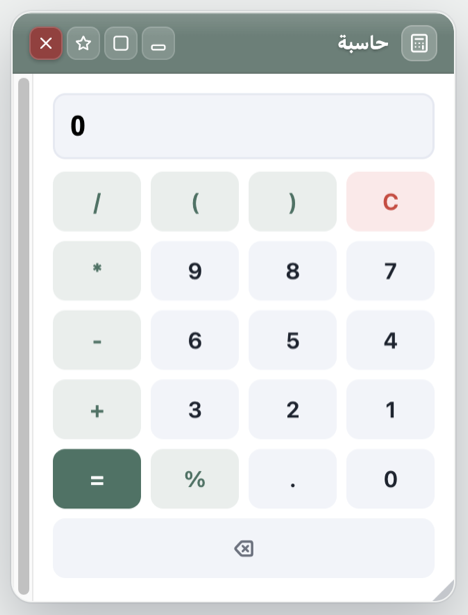
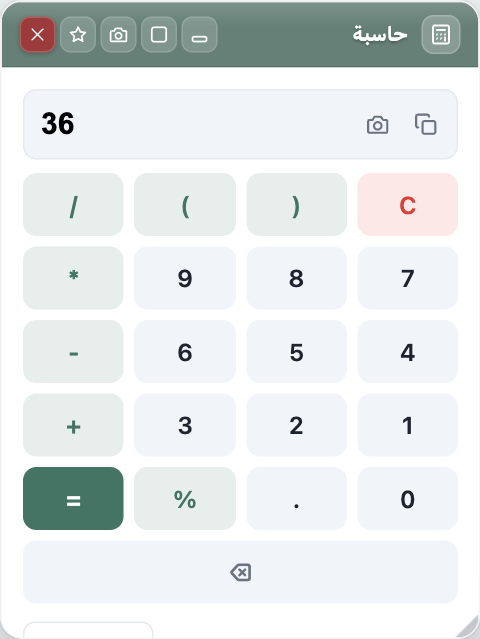
SYF Shortcuts user guide v0.143.0: extension order + new features
- Contents follow the extension's rail: categories in its order, tools in
  their default order inside each.
- New settings section «The tool window's head»: close, favourite, 📷 snap
  the tool to the clipboard, maximise, minimise (new picture + pins).
- Colours: the «Enhanced dropdowns (Select2 style)» switch (picture retaken).
- Calculator: copy / picture icons in the display (pictures retaken).
- Currency: ⟳ refresh rates (pictures retaken).
- Image editor: the «Remove background» tab (steps + new screen).
- Tax calculator: the VAT tab is now «Tax».

diff --git a/assets/guide-data.js b/assets/guide-data.js
@@ -19,7 +19,9 @@
 (function () {
   'use strict';
 
-  /* category order and labels follow the rail (src/rail.js → cats) */
+  /* labels only — the ORDER shown (categories and the tools inside each) is the rail's,
+     applied by guide.js / guide-slides.js from guide-meta.js `order` (src/rail.js
+     ORDER + DEFAULT_TOOL_ORDER). The order entries are written in here does not matter. */
   window.SYF_GUIDE_CATS = [
     { id: 'calc',   ar: 'حاسبات',        en: 'Calculators' },
     { id: 'note',   ar: 'ملاحظات ونصوص', en: 'Notes & text' },
@@ -45,9 +47,9 @@
     /* ===== حاسبات ===== */
     t('calc', 'calc', 1,
       'حاسبة', 'حاسبة بالأقواس والنسبة المئوية والإشارة السالبة، تعمل بلوحة المفاتيح كما تعمل بالضغط، وتحفظ سجلّ آخر العمليات.',
-      ['اكتب العملية أو اضغط الأزرار — الأقواس والإشارة السالبة مدعومة (2×−3 = −6).', 'من لوحة المفاتيح: الأرقام (ومعها ٠-٩) والعمليات و× و÷، Enter أو = للنتيجة، Backspace يحذف آخر حرف، Esc يمسح.', 'Ctrl/⌘+C داخل الحاسبة ينسخ الرقم الظاهر على الشاشة.', '«C» يمسح، و«⌫» يحذف آخر حرف، و«%» يحوّل العدد الذي قبله إلى نسبة.', '«السجلّ» تحت الحاسبة يحفظ آخر 20 عملية ويبقى بعد الإغلاق — انقر سطرًا لتعيد استخدام نتيجته.', '«مسح السجلّ» يفرّغ السجلّ كلّه.'],
+      ['اكتب العملية أو اضغط الأزرار — الأقواس والإشارة السالبة مدعومة (2×−3 = −6).', 'من لوحة المفاتيح: الأرقام (ومعها ٠-٩) والعمليات و× و÷، Enter أو = للنتيجة، Backspace يحذف آخر حرف، Esc يمسح.', 'في طرف شاشة النتيجة أيقونتان: الأولى تنسخ الرقم، والكاميرا تنسخ صورةً للعملية ونتيجتها (مثل 12*3 = 36) لتلصقها في محادثة أو مستند — بلا تنزيل ملف. وCtrl/⌘+C ينسخ الرقم أيضًا.', '«C» يمسح، و«⌫» يحذف آخر حرف، و«%» يحوّل العدد الذي قبله إلى نسبة.', '«السجلّ» تحت الحاسبة يحفظ آخر 20 عملية ويبقى بعد الإغلاق — انقر سطرًا لتعيد استخدام نتيجته.', '«مسح السجلّ» يفرّغ السجلّ كلّه.'],
       'Calculator', 'A calculator with brackets, percentages and negative numbers, driven by the keyboard as well as the buttons, with a history of recent results.',
-      ['Type the expression or press the keys — brackets and negative signs are supported (2×−3 = −6).', 'From the keyboard: digits (Arabic-Indic ٠-٩ too), operators and × ÷, Enter or = for the result, Backspace deletes the last character, Esc clears.', 'Ctrl/⌘+C inside the calculator copies the number on the display.', '«C» clears, «⌫» deletes the last character, «%» turns the preceding number into a percentage.', 'The «History» under the calculator keeps the last 20 operations and survives closing — click a row to reuse its result.', '«Clear history» empties the whole list.']),
+      ['Type the expression or press the keys — brackets and negative signs are supported (2×−3 = −6).', 'From the keyboard: digits (Arabic-Indic ٠-٩ too), operators and × ÷, Enter or = for the result, Backspace deletes the last character, Esc clears.', 'Two icons sit at the end of the display: one copies the number, the camera copies a picture of the sum and its result (e.g. 12*3 = 36) to paste into a chat or a document — no file is downloaded. Ctrl/⌘+C copies the number too.', '«C» clears, «⌫» deletes the last character, «%» turns the preceding number into a percentage.', 'The «History» under the calculator keeps the last 20 operations and survives closing — click a row to reuse its result.', '«Clear history» empties the whole list.']),
     t('units', 'calc', 1,
       'محوّل الوحدات', 'أحد عشر بابًا للتحويل — طول ووزن وحرارة ومساحة وحجم وسرعة وزمن وبيانات وضغط وطاقة وزاوية — في الاتجاهين.',
       ['اختر الباب من الشريط الجانبي (الطول، الوزن، الحرارة، …).', 'اكتب القيمة في الخانة العليا واختر وحدتها، واختر وحدة النتيجة في الخانة السفلى.', 'يمكنك الكتابة في أيّ الخانتين — الأخرى تتبعها فورًا.', 'زرّ السهمين «عكس الاتجاه» يبدّل الوحدتين وينقل النتيجة إلى خانة القيمة.', 'القائمة تحتها تعرض القيمة في كل وحدات الباب دفعةً واحدة — انقر سطرًا لتجعله وحدة النتيجة.'],
@@ -55,9 +57,9 @@
       ['Pick the family in the side rail (Length, Weight, Temperature, …).', 'Type the value in the top box and pick its unit, then pick the result unit in the bottom box.', 'You can type in either box — the other follows at once.', 'The two-arrow «Swap direction» button swaps the units and moves the result into the value box.', 'The list below shows the value in every unit of the family at once — click a row to make it the result unit.']),
     t('currency', 'calc', 1,
       'العملات', 'مبلغ واحد بعملة أساسية تراه بكل العملات التي تختارها دفعةً واحدة، بأسعار من الشبكة تُخزَّن فتبقى تعمل بلا اتصال مع تاريخها.',
-      ['اكتب المبلغ واختر العملة الأساس من القائمة بجانبه.', 'اللوحة تحتها تعرض المبلغ بكل عملة معروضة، ومعه سعر الوحدة (1 SAR = …).', 'انقر أيّ سطر لتجعل عملته هي العملة الأساس.', '«العملات المعروضة» يفتح قائمة بمربّعات اختيار وحقل «ابحث عن عملة…» — علّم ما تريد ظهوره.', 'السطر السفلي يقول من متى السعر: «آخر تحديث» عند النجاح، و«سعر مخزَّن من …» إن تعذّر التحديث.', 'بلا سعر لعملةٍ ما تظهر «لا يوجد سعر لهذه العملة» بدل رقم مخترَع. العملة الأساس والقائمة تُحفظان.'],
+      ['اكتب المبلغ واختر العملة الأساس من القائمة بجانبه.', 'اللوحة تحتها تعرض المبلغ بكل عملة معروضة، ومعه سعر الوحدة (1 SAR = …).', 'انقر أيّ سطر لتجعل عملته هي العملة الأساس.', '«العملات المعروضة» يفتح قائمة بمربّعات اختيار وحقل «ابحث عن عملة…» — علّم ما تريد ظهوره.', 'السطر السفلي يقول من متى السعر: «آخر تحديث» عند النجاح، و«سعر مخزَّن من …» إن تعذّر التحديث.', 'زرّ ⟳ «تحديث الأسعار» بجانب «العملات المعروضة» يجلب أحدث الأسعار الآن متجاوزًا المخزَّن.', 'بلا سعر لعملةٍ ما تظهر «لا يوجد سعر لهذه العملة» بدل رقم مخترَع. العملة الأساس والقائمة تُحفظان.'],
       'Currency', 'One amount in a base currency, read at once in every currency you choose, using rates fetched from the network and cached with their date so it still works offline.',
-      ['Type the amount and pick the base currency in the list beside it.', 'The board below shows the amount in each watched currency, with the unit rate (1 SAR = …).', 'Click any row to make its currency the base.', '«Currencies shown» opens a checklist with a «Search for a currency…» box — tick the ones you want listed.', 'The bottom line says how old the rate is: «Last updated» on success, «Cached rate from …» when it could not refresh.', 'A currency with no rate says «No rate for this currency» instead of an invented number. Your base and list are remembered.']),
+      ['Type the amount and pick the base currency in the list beside it.', 'The board below shows the amount in each watched currency, with the unit rate (1 SAR = …).', 'Click any row to make its currency the base.', '«Currencies shown» opens a checklist with a «Search for a currency…» box — tick the ones you want listed.', 'The bottom line says how old the rate is: «Last updated» on success, «Cached rate from …» when it could not refresh.', 'The ⟳ «Refresh rates» button beside «Currencies shown» fetches the latest rates now, skipping the cached ones.', 'A currency with no rate says «No rate for this currency» instead of an invented number. Your base and list are remembered.']),
     t('finance', 'calc', 1,
       'حاسبة مالية', 'ثماني حاسبات مالية في أداة واحدة، كلٌّ في تبويب: النسبة، الخصم، هامش الربح، العمولة، الأوفر تايم، عائد الاستثمار، العائد المركّب، الراتب.',
       ['اختر الحاسبة من الشريط الجانبي؛ الناتج يظهر فور الكتابة — لا يوجد زرّ «احسب».', '«النسبة»: أربعة أوضاع — نسبة من عدد، زيادة، نقصان، ونسبة عدد من عدد.', '«الخصم»: السعر ونسبة الخصم ⇐ قيمة الخصم والسعر بعده.', '«هامش الربح»: سعر البيع والتكلفة ⇐ الربح وهامش الربح ونسبة الزيادة على التكلفة.', '«العمولة»: المبيعات والنسبة، ثم «العمولة فقط» أو «إضافتها» أو «خصمها» من المبلغ.', '«أوفر تايم»: الراتب وساعات الشهر والساعات الإضافية والمعامل (×1.5 أو ×2) ⇐ أجر الساعة والإجمالي.', '«عائد استثمار» و«عائد مركّب»: المبلغ والنسبة السنوية والسنوات والادخار كل فترة، سنويًّا أو شهريًّا ⇐ الربح والرصيد النهائي (والأول يعطي ROI%).', '«الراتب»: الأساسي والبدلات وسنة الخدمة في التأمينات ⇐ خصم التأمينات وصافي الراتب (الأجر الخاضع محدود بـ45,000 ريال).'],
@@ -65,9 +67,9 @@
       ['Pick the calculator in the side rail; the answer appears as you type — there is no «calculate» button.', '«Percentage»: four modes — percentage of a number, increase, decrease, and one number as a percentage of another.', '«Discount»: price and discount rate ⇒ the discount amount and the price after it.', '«Profit margin»: selling price and cost ⇒ profit, margin and markup on cost.', '«Commission»: sales and rate, then «Commission only», «Add it» or «Subtract it» from the amount.', '«Overtime»: monthly salary, monthly hours, extra hours and multiplier (×1.5 or ×2) ⇒ hourly rate and total.', '«ROI» and «Compound»: amount, yearly rate, years and contribution each period, yearly or monthly ⇒ gain and final balance (ROI also gives ROI %).', '«Salary»: basic, allowances and social-insurance year ⇒ the GOSI deduction and net salary (the insured wage is capped at 45,000 SAR).']),
     t('tax', 'calc', 1,
       'حاسبة الضرائب', 'أربع حاسبات في تبويبات: ضريبة القيمة المضافة (السعودية والإمارات ومصر أو نسبة حرّة)، وغرامة التأخير وضريبة الشركات ومكافأة نهاية الخدمة وفق قوانين الإمارات.',
-      ['اختر النوع من الشريط الجانبي؛ الناتج يظهر فور الكتابة.', '«ضريبة القيمة»: اختر «السعودية 15%» أو «الإمارات 5%» أو «مصر 14%»، أو «أخرى» واكتب النسبة بنفسك.', '«إضافة الضريبة» تحسبها فوق المبلغ، و«استخراجها» تفترض أن المبلغ شاملها — والناتج: الصافي والضريبة والإجمالي.', '«غرامة تأخير»: قيمة الضريبة وتاريخا الاستحقاق والسداد ⇐ الغرامة (2% فورًا + 4% شهريًّا، بحدّ 300%).', '«ضريبة الشركات»: الدخل الخاضع ⇐ 9% على ما يزيد عن 375,000 درهم، وصافي الدخل.', '«نهاية الخدمة»: آخر راتب أساسي وتاريخا الالتحاق وآخر يوم وأيام الإجازة بلا راتب ⇐ مدة الخدمة والمكافأة.'],
+      ['اختر النوع من الشريط الجانبي؛ الناتج يظهر فور الكتابة.', '«الضريبة»: اختر «السعودية 15%» أو «الإمارات 5%» أو «مصر 14%»، أو «أخرى» واكتب النسبة بنفسك.', '«إضافة الضريبة» تحسبها فوق المبلغ، و«استخراجها» تفترض أن المبلغ شاملها — والناتج: الصافي والضريبة والإجمالي.', '«غرامة تأخير»: قيمة الضريبة وتاريخا الاستحقاق والسداد ⇐ الغرامة (2% فورًا + 4% شهريًّا، بحدّ 300%).', '«ضريبة الشركات»: الدخل الخاضع ⇐ 9% على ما يزيد عن 375,000 درهم، وصافي الدخل.', '«نهاية الخدمة»: آخر راتب أساسي وتاريخا الالتحاق وآخر يوم وأيام الإجازة بلا راتب ⇐ مدة الخدمة والمكافأة.'],
       'Tax calculator', 'Four calculators in tabs: VAT (Saudi, UAE, Egypt or a free rate), plus late-payment penalty, corporate tax and end-of-service gratuity under UAE law.',
-      ['Pick the kind in the side rail; the answer appears as you type.', '«VAT»: choose «Saudi Arabia 15%», «UAE 5%» or «Egypt 14%», or «Other» and type your own rate.', '«Add the tax» computes it on top of the amount; «Extract it» assumes the amount already includes it — showing net, tax and total.', '«Late penalty»: tax amount, due date and payment date ⇒ the penalty (2% at once + 4% a month, capped at 300%).', '«Corporate tax»: taxable income ⇒ 9% on the part above AED 375,000, and the net income.', '«End of service»: last basic salary, start date, last working day and unpaid-leave days ⇒ years of service and the gratuity.'])
+      ['Pick the kind in the side rail; the answer appears as you type.', '«Tax»: choose «Saudi Arabia 15%», «UAE 5%» or «Egypt 14%», or «Other» and type your own rate.', '«Add the tax» computes it on top of the amount; «Extract it» assumes the amount already includes it — showing net, tax and total.', '«Late penalty»: tax amount, due date and payment date ⇒ the penalty (2% at once + 4% a month, capped at 300%).', '«Corporate tax»: taxable income ⇒ 9% on the part above AED 375,000, and the net income.', '«End of service»: last basic salary, start date, last working day and unpaid-leave days ⇒ years of service and the gratuity.'])
     /* ===== ملاحظات ونصوص ===== */
 ,
     t('notes', 'note', 1,
@@ -388,10 +390,10 @@
       'Screenshot', 'Captures an area you mark, a window or screen you pick, or the whole page by auto-scrolling — all processed locally.',
       ['«Mark an area» tab: press «✂ Mark an area and capture it» and drag a rectangle; it is captured and copied as you release. Esc cancels.', 'For an area taller than the screen, scroll with the wheel or drag towards the screen edge while selecting; the slices are stitched into one image.', '«The visible area» tab: press «Take a snapshot» and pick a window or screen in the sharing dialog; the image is copied to the clipboard automatically.', '«The whole page» tab: press «📸 Capture the whole page» and don\'t move the page until it finishes; fixed bars are hidden so they don\'t repeat.', 'After capturing: «📋 Copy to the clipboard» or «Download PNG» (the whole page also offers «Download JPG» and «Download PDF»).', '«✏ Quick edit» sends the shot to the image editor, and «🎨 Pro editor» opens it in the advanced editing page.', 'A whole-page capture stops at a maximum height, and scrolling areas inside the page are not included.']),
     t('imgedit', 'media', 1,
-      'محرر الصور والمحوّل', 'محرر صور سريع للرسم والقصّ والطمس والكتابة، مع تحويل الصيغ و PDF ⇄ صور والضغط وتغيير الحجم — محلّيًا بالكامل.',
-      ['تبويب «تحرير»: افتح صورة، أو أرسِلها من أداة اللقطة بزرّ «تحرير سريع».', 'أدوات الرسم: قلم · خط · إطار · سهم · نص · قص · طمس، مع لون وسماكة، وزرّ تدوير 90° وزرّ تراجع.', '«قص»: اسحب مستطيلًا ثم «✓ تأكيد القص»؛ «طمس»: اسحب على منطقة فتُموَّه بالبكسل نهائيًا (يناسب إخفاء البيانات الحسّاسة).', '«نص»: اكتب النص في الحقل ثم انقر موضعه على الصورة. احفظ بـ«تنزيل PNG» أو JPG أو PDF، أو «📋 نسخ»، أو افتحها في المحرر الاحترافي.', 'تبويب «تحويل صيغة»: اختر ملفات (صور أو PDF) والصيغة الهدف: PNG · JPG · WebP · BMP · ICO · GIF · TIFF · PDF، ثم «تحويل وتنزيل».', 'في التحويل: جودة لـ JPG/WebP/PDF، ومقاسات الأيقونة لـ ICO، ودمج الكل في PDF واحد أو ملاءمة صفحة A4، وخيار «أقصى بُعد».', 'تبويب «PDF ⇄ صور»: «PDF → صور» يستخرج صفحات تختارها (مثل 1-3,7) بدقّة 72–300 DPI؛ «صور → PDF» يجمع الصور في ملف PDF واحد.', 'تبويب «ضغط»: جودة يدوية أو حجم مستهدف بالكيلوبايت؛ وتبويب «تغيير الحجم»: أطول ضلع أو العرض أو الارتفاع أو نسبة %. أكثر من ملف يُنزَّل ZIP.'],
-      'Image editor & converter', 'A quick image editor for drawing, cropping, blurring and text, plus format conversion, PDF ⇄ images, compression and resizing — entirely local.',
-      ['«Edit» tab: open an image, or send one here from the screenshot tool with «Quick edit».', 'Drawing tools: pen · line · frame · arrow · text · crop · blur, with colour and thickness, a rotate-90° button and «Undo».', 'Crop: drag a rectangle, then «✓ Confirm the crop». Blur: drag over an area to pixelate it permanently — good for hiding sensitive details.', 'Text: type it in the field, then click its spot on the image. Save with «Download PNG», JPG or PDF, «📋 Copy», or open it in the pro editor.', '«Convert format» tab: pick files (images or PDF) and a target format: PNG · JPG · WebP · BMP · ICO · GIF · TIFF · PDF, then convert and download.', 'Conversion options: quality for JPG/WebP/PDF, icon sizes for ICO, merge everything into one PDF or fit to an A4 page, and a maximum dimension.', '«PDF ⇄ images» tab: «PDF → images» extracts pages you list (e.g. 1-3,7) at 72–300 DPI; «Images → PDF» builds one PDF from your images.', '«Compress» tab: manual quality or a target size in KB. «Resize» tab: longest side, width, height or percent. More than one file downloads as a ZIP.']),
+      'محرر الصور والمحوّل', 'محرر صور سريع للرسم والقصّ والطمس والكتابة، مع تحويل الصيغ و PDF ⇄ صور والضغط وتغيير الحجم وحذف الخلفية — محلّيًا بالكامل.',
+      ['تبويب «تحرير»: افتح صورة، أو أرسِلها من أداة اللقطة بزرّ «تحرير سريع».', 'أدوات الرسم: قلم · خط · إطار · سهم · نص · قص · طمس، مع لون وسماكة، وزرّ تدوير 90° وزرّ تراجع.', '«قص»: اسحب مستطيلًا ثم «✓ تأكيد القص»؛ «طمس»: اسحب على منطقة فتُموَّه بالبكسل نهائيًا (يناسب إخفاء البيانات الحسّاسة).', '«نص»: اكتب النص في الحقل ثم انقر موضعه على الصورة. احفظ بـ«تنزيل PNG» أو JPG أو PDF، أو «📋 نسخ»، أو افتحها في المحرر الاحترافي.', 'تبويب «تحويل صيغة»: اختر ملفات (صور أو PDF) والصيغة الهدف: PNG · JPG · WebP · BMP · ICO · GIF · TIFF · PDF، ثم «تحويل وتنزيل».', 'في التحويل: جودة لـ JPG/WebP/PDF، ومقاسات الأيقونة لـ ICO، ودمج الكل في PDF واحد أو ملاءمة صفحة A4، وخيار «أقصى بُعد».', 'تبويب «PDF ⇄ صور»: «PDF → صور» يستخرج صفحات تختارها (مثل 1-3,7) بدقّة 72–300 DPI؛ «صور → PDF» يجمع الصور في ملف PDF واحد.', 'تبويب «ضغط»: جودة يدوية أو حجم مستهدف بالكيلوبايت؛ وتبويب «تغيير الحجم»: أطول ضلع أو العرض أو الارتفاع أو نسبة %. أكثر من ملف يُنزَّل ZIP.', 'تبويب «حذف الخلفية»: اسحب صورة أو الصقها (Ctrl+V)، ثم انقر الخلفية بـ«العصا السحرية» — «التفاوت» يحدّد مدى تشابه الألوان، و«المنطقة المتّصلة» أو «كل هذا اللون».', 'صحّح الحوافّ بـ«فرشاة: أبقِ» و«فرشاة: احذف» (حجمها بـ[ و])، مع «↩ تراجع» و«↪ إعادة» و«تنعيم الحافّة» و«قبل / بعد». اختر «الخلفية»: شفّافة أو بيضاء أو لون، ثم «تنزيل PNG» أو WebP أو JPG أو «📋 نسخ» أو أرسلها إلى «تحرير». الصورة لا تغادر جهازك، والوضع التلقائي بالذكاء المحلّي قادم قريبًا.'],
+      'Image editor & converter', 'A quick image editor for drawing, cropping, blurring and text, plus format conversion, PDF ⇄ images, compression, resizing and background removal — entirely local.',
+      ['«Edit» tab: open an image, or send one here from the screenshot tool with «Quick edit».', 'Drawing tools: pen · line · frame · arrow · text · crop · blur, with colour and thickness, a rotate-90° button and «Undo».', 'Crop: drag a rectangle, then «✓ Confirm the crop». Blur: drag over an area to pixelate it permanently — good for hiding sensitive details.', 'Text: type it in the field, then click its spot on the image. Save with «Download PNG», JPG or PDF, «📋 Copy», or open it in the pro editor.', '«Convert format» tab: pick files (images or PDF) and a target format: PNG · JPG · WebP · BMP · ICO · GIF · TIFF · PDF, then convert and download.', 'Conversion options: quality for JPG/WebP/PDF, icon sizes for ICO, merge everything into one PDF or fit to an A4 page, and a maximum dimension.', '«PDF ⇄ images» tab: «PDF → images» extracts pages you list (e.g. 1-3,7) at 72–300 DPI; «Images → PDF» builds one PDF from your images.', '«Compress» tab: manual quality or a target size in KB. «Resize» tab: longest side, width, height or percent. More than one file downloads as a ZIP.', '«Remove background» tab: drop or paste (Ctrl+V) an image, then click the background with the «Magic wand» — «Tolerance» sets how alike the colours must be, with «Connected area» or «All of this colour».', 'Fix the edges with «Brush: keep» and «Brush: erase» (size with [ and ]), plus «↩ Undo», «↪ Redo», «Edge feather» and «Before / after». Pick the «Background»: transparent, white or a colour, then «Download PNG», WebP or JPG, «📋 Copy», or send it to «Edit». The image never leaves your device; an automatic local-AI mode is coming soon.']),
     t('imgbatch', 'media', 1,
       'معالج الصور المجمّع', 'يصغّر ويحوّل ويضغط مجموعة صور دفعة واحدة، ويُنزّلها ملف ZIP واحدًا.',
       ['اختر الصور (يظهر عددها وحجمها الإجمالي؛ ويُنبَّه إن تجاوزت 100 صورة).', '«① البُعد»: بدون تغيير، أو أطول ضلع بالبكسل، أو نسبة %.', '«② الصيغة»: الأصل أو WebP أو JPG أو PNG.', '«③ الضغط»: جودة بمنزلق، أو حجم مستهدف بالكيلوبايت لكل صورة.', 'اضغط «نفّذ على الكل»: تُعالَج الصور واحدة تلو الأخرى مع سطر نتيجة لكل صورة، ثم يُنزَّل ملف ZIP واحد.', 'تعرض الخانات «الإجمالي قبل» و«الإجمالي بعد» و«التوفير» نسبة ما وفّرته.', 'محلّي بالكامل: لا تُرفع أي صورة.'],
@@ -622,7 +624,7 @@
     'occasions': [['occasions-settings', 'الإعدادات', 'Settings']],
     'quran': [['quran-surahs', 'السور', 'Surahs'], ['quran-sleep', 'مؤقّت النوم', 'Sleep timer']],
     'screenshot': [['screenshot-visible', 'المنطقة المرئية', 'Visible area'], ['screenshot-page', 'الصفحة كاملة', 'Whole page']],
-    'imgedit': [['imgedit-edit', 'تحرير صورة', 'Editing an image'], ['imgedit-convert', 'تحويل صيغة', 'Convert'], ['imgedit-pdf', 'PDF ⇄ صور', 'PDF ⇄ images'], ['imgedit-compress', 'ضغط', 'Compress'], ['imgedit-resize', 'تغيير الحجم', 'Resize']],
+    'imgedit': [['imgedit-edit', 'تحرير صورة', 'Editing an image'], ['imgedit-convert', 'تحويل صيغة', 'Convert'], ['imgedit-pdf', 'PDF ⇄ صور', 'PDF ⇄ images'], ['imgedit-compress', 'ضغط', 'Compress'], ['imgedit-resize', 'تغيير الحجم', 'Resize'], ['imgedit-bgrm', 'حذف الخلفية', 'Remove background']],
     'imgbatch': [['imgbatch-target', 'حجم مستهدف', 'Target size']],
     'videodl': [['videodl-results', 'نتائج البحث', 'Search results']],
     'status': [['status-image', 'خلفية من صورة', 'Image background']],

diff --git a/assets/guide-settings.js b/assets/guide-settings.js
@@ -36,6 +36,19 @@
        '★ Star', 'Adds the tool to the favourites shelf at the top of the rail.']
     ]),
 
+    g('win', '🪟', ['رأس نافذة الأداة', 'أعلى كل نافذة أداة تفتحها — على الشريط العائم وفي وضع العمل'], ['The tool window\'s head', 'The top of every tool window you open — on the floating rail and in Workspace mode'], [
+      ['✕ إغلاق', 'يغلق النافذة. سحب الرأس ينقلها، والمقبض في زاويتها السفلى يغيّر حجمها.',
+       '✕ Close', 'Closes the window. Drag the head to move it; the grip in its bottom corner resizes it.'],
+      ['★ المفضّلة', 'يضيف الأداة إلى رفّ المفضّلة أعلى الشريط أو يزيلها منه.',
+       '★ Favourite', 'Adds the tool to the favourites shelf at the top of the rail, or removes it.'],
+      ['📷 تصوير الأداة ونسخ الصورة', 'يلتقط النافذة كما تراها وينسخها صورةً إلى الحافظة — الصقها مباشرة في محادثة أو مستند. لا يُنزَّل ملف، ولا يُصوَّر إلا التبويب الظاهر أمامك. ✓ على الزرّ يعني أنها نُسخت.',
+       '📷 Snap this tool and copy the picture', 'Captures the window exactly as you see it and copies it to the clipboard as an image — paste it straight into a chat or a document. No file is downloaded, and only the tab in front of you is ever captured. A ✓ on the button means it was copied.'],
+      ['▢ تكبير', 'يملأ الصفحة بالنافذة، وضغطة ثانية تعيد حجمها.',
+       '▢ Maximise', 'Fills the page with the window; press again to restore its size.'],
+      ['▭ تصغير', 'يطوي النافذة إلى شريط أسفل الشاشة؛ انقره لتعود.',
+       '▭ Minimise', 'Folds the window into a strip at the bottom of the screen; click it to bring it back.']
+    ]),
+
     g('langpos', '🌐', ['اللغة والموضع', RAIL_AR + ' ← 🎨 المظهر ← اللغة والموضع'], ['Language & position', RAIL_EN + ' → 🎨 Appearance → Language & position'], [
       ['اللغة — Language', 'العربية أو English. يقلب اتجاه الواجهة، ويغلق النوافذ المفتوحة، ويعيد بناء الشريط. أول تثبيت يخمّنها من لغة متصفّحك ويسألك مرّة.',
        'Language', 'Arabic or English. Flips the interface direction, closes open windows and rebuilds the rail. A fresh install guesses from your browser language and asks you once.'],
@@ -47,7 +60,9 @@
       ['اللون', 'ثمانية ألوان لهويّة الشريط ونوافذ الأدوات: تركوازي (الافتراضي)، أزرق، بنفسجي، أخضر، برتقالي، وردي، سماوي، رمادي.',
        'Colour', 'Eight accent colours for the rail and tool windows: teal (default), blue, purple, green, orange, pink, sky, grey.'],
       ['نمط الأزرار', 'صلب، زجاجي، ثلجي، محدّد، داكن، واضح — شكل رسم أزرار الشريط. «ثلجي» أو «واضح» أوضح على المواقع المزدحمة.',
-       'Button style', 'Solid, glass, frosted, outlined, dark, clear — how the rail\'s buttons are drawn. «Frosted» or «clear» read better on busy sites.']
+       'Button style', 'Solid, glass, frosted, outlined, dark, clear — how the rail\'s buttons are drawn. «Frosted» or «clear» read better on busy sites.'],
+      ['قوائم منسدلة محسّنة (سلكت ٢) مع بحث داخل الخيارات', 'كل قائمة منسدلة في الأدوات وصفحات الإضافة تفتح قائمة أوضح، وفيها خانة بحث متى زادت خياراتها على سبعة (تفهم الهمزة والتشكيل). الأسهم وEnter وEsc تعمل. لا تمسّ قوائم المواقع التي تتصفّحها. مفعّلة افتراضيًا، ويسري الإطفاء فورًا.',
+       'Enhanced dropdowns (Select2 style) with search inside the options', 'Every dropdown in the tools and extension pages opens a clearer list, with a search box once it has more than seven options. Arrows, Enter and Esc work. The dropdowns of the sites you browse are left alone. On by default; switching it off applies at once.']
     ]),
 
     g('fonts', '🔤', ['الخطوط', RAIL_AR + ' ← 🎨 المظهر ← الخطوط'], ['Fonts', RAIL_EN + ' → 🎨 Appearance → Fonts'], [
@@ -152,7 +167,8 @@
   var PINS = {
     tools:   [[95.9, 26.5], [84.3, 53.1], [88.4, 64.6], [93.4, 53.1], [15.5, 65.3], [8.8, 65.2]],
     langpos: [[43.4, 41.6, 1], [50.1, 67.4, 1]],
-    colors:  [[60.2, 41.6, 1], [54.5, 54.7, 1]],
+    win:     [[7.8, 5.5], [16.3, 5.5], [24.7, 5.5], [33.1, 5.5], [41.6, 5.5]],
+    colors:  [[60.2, 41.5, 1], [54.6, 54.6, 1], [6.9, 78.5, 1]],
     fonts:   [[52.5, 27.5, 1], [65, 64.8], [13.9, 83, 1]],
     bar:     [[49.3, 28.6, 1], [56.1, 44.9, 1], [53, 54.4, 1], [42.2, 71.1, 1], [11.2, 92, 1], null],
     clock:   [[23.5, 34, 1], [58.8, 38.9, 1], [53.9, 54.7, 1], [52, 63.9, 1], [51.6, 73.1, 1], [10.4, 83.2, 1]],

diff --git a/assets/guide-meta.js b/assets/guide-meta.js
@@ -500,5 +500,129 @@ window.SYF_GUIDE_META = {
    "icon": "<svg viewBox=\"0 0 24 24\" fill=\"none\" stroke=\"currentColor\" stroke-width=\"2\" stroke-linecap=\"round\" stroke-linejoin=\"round\"><rect x=\"3\" y=\"3\" width=\"18\" height=\"18\" rx=\"3\"/><path d=\"M9 9l6 6M15 9l-6 6\"/></svg>",
    "hotkey": "Alt+Q"
   }
+ },
+ "order": {
+  "cats": [
+   "islam",
+   "calc",
+   "note",
+   "docs",
+   "time",
+   "media",
+   "util",
+   "shield",
+   "perf",
+   "links",
+   "dev",
+   "ai"
+  ],
+  "tools": [
+   "quran",
+   "qradio",
+   "prayer",
+   "athkar",
+   "wird",
+   "occasions",
+   "ithkar",
+   "hijri",
+   "calc",
+   "finance",
+   "tax",
+   "units",
+   "currency",
+   "notes",
+   "clipboard",
+   "textdiff",
+   "readsave",
+   "counter",
+   "checklist",
+   "translate",
+   "voice",
+   "phones",
+   "docedit",
+   "sheetview",
+   "slidesedit",
+   "mailwriter",
+   "mdview",
+   "pdfcompress",
+   "pdfword",
+   "ziptool",
+   "ocr",
+   "whiteboard",
+   "calendar",
+   "datediff",
+   "timelog",
+   "timer",
+   "alerts",
+   "worldclock",
+   "screenshot",
+   "regionshot",
+   "screenrec",
+   "status",
+   "frames",
+   "vtrim",
+   "vaudio",
+   "vconv",
+   "imgedit",
+   "imgbatch",
+   "exif",
+   "videodl",
+   "display",
+   "password",
+   "qrgen",
+   "qrread",
+   "speed",
+   "watch",
+   "sessions",
+   "ytplus",
+   "formfill",
+   "vault",
+   "appmode",
+   "railtoggle",
+   "closeall",
+   "adblock",
+   "sitecleaner",
+   "cookiemgr",
+   "waprivacy",
+   "msprivacy",
+   "waopen",
+   "wablur",
+   "msopen",
+   "msblur",
+   "speedlite",
+   "speedembed",
+   "speedfreeze",
+   "speedfetch",
+   "speedtabs",
+   "siteviewer",
+   "waweb",
+   "lnk-google",
+   "lnk-custom",
+   "lnk-gmail",
+   "lnk-outlook",
+   "lnk-teams",
+   "lnk-facebook",
+   "lnk-youtube",
+   "lnk-drive",
+   "lnk-calendar",
+   "lnk-telegram",
+   "lnk-linkedin",
+   "lnk-x",
+   "techdetect",
+   "perfaudit",
+   "devpage",
+   "devformat",
+   "codemin",
+   "devencode",
+   "devconvert",
+   "devregex",
+   "devlogs",
+   "devnet",
+   "devfake",
+   "devcolor",
+   "devinspect",
+   "devviewport",
+   "sam-ai"
+  ]
  }
 };

diff --git a/index.html b/index.html
@@ -5,7 +5,7 @@
 <meta name="viewport" content="width=device-width, initial-scale=1">
 <title>دليل استخدام SYF Shortcuts — صندوق أدوات المتصفّح</title>
 <meta name="description" content="كل ما تحتاجه أثناء التصفّح، في شريط واحد على حافة الشاشة. تعرّف على كل أداة وأيقونتها واختصار فتحها وخطوات استعمالها، ثم اضبط الإضافة على ذوقك بشرح واضح لكل إعداد.">
-<meta name="generator" content="SYF Shortcuts v0.140.13">
+<meta name="generator" content="SYF Shortcuts v0.143.0">
 <meta property="og:type" content="website">
 <meta property="og:title" content="دليل استخدام SYF Shortcuts — صندوق أدوات المتصفّح">
 <meta property="og:description" content="كل ما تحتاجه أثناء التصفّح، في شريط واحد على حافة الشاشة. تعرّف على كل أداة وأيقونتها واختصار فتحها وخطوات استعمالها، ثم اضبط الإضافة على ذوقك بشرح واضح لكل إعداد.">

diff --git a/en.html b/en.html
@@ -5,7 +5,7 @@
 <meta name="viewport" content="width=device-width, initial-scale=1">
 <title>SYF Shortcuts user guide — your browser toolbox</title>
 <meta name="description" content="Everything you need while browsing, in one bar at the edge of the screen. Meet every tool, its icon, the shortcut that opens it and the steps to use it — then tune the extension with a clear explanation of every setting.">
-<meta name="generator" content="SYF Shortcuts v0.140.13">
+<meta name="generator" content="SYF Shortcuts v0.143.0">
 <meta property="og:type" content="website">
 <meta property="og:title" content="SYF Shortcuts user guide — your browser toolbox">
 <meta property="og:description" content="Everything you need while browsing, in one bar at the edge of the screen. Meet every tool, its icon, the shortcut that opens it and the steps to use it — then tune the extension with a clear explanation of every setting.">

diff --git a/assets/guide-slides.js b/assets/guide-slides.js
@@ -103,8 +103,12 @@
     return box;
   }
 
-  var CATS = window.SYF_GUIDE_CATS, TOOLS = window.SYF_GUIDE;
   var META = window.SYF_GUIDE_META || { leader: 'Alt+K', cats: {}, tools: {} };
+  /* same rail order as guide.js — from guide-meta.js, generated from src/rail.js */
+  var ORD = META.order || { cats: [], tools: [] };
+  function rank(list, id) { var i = list.indexOf(id); return i < 0 ? 1e4 : i; }
+  var CATS = window.SYF_GUIDE_CATS.slice().sort(function (a, b) { return rank(ORD.cats, a.id) - rank(ORD.cats, b.id); });
+  var TOOLS = window.SYF_GUIDE.slice().sort(function (a, b) { return rank(ORD.tools, a.id) - rank(ORD.tools, b.id); });
   var SETS = window.SYF_GUIDE_SETTINGS || [];
   var stage = document.getElementById('s-stage');
   var jump = document.getElementById('s-jump');
